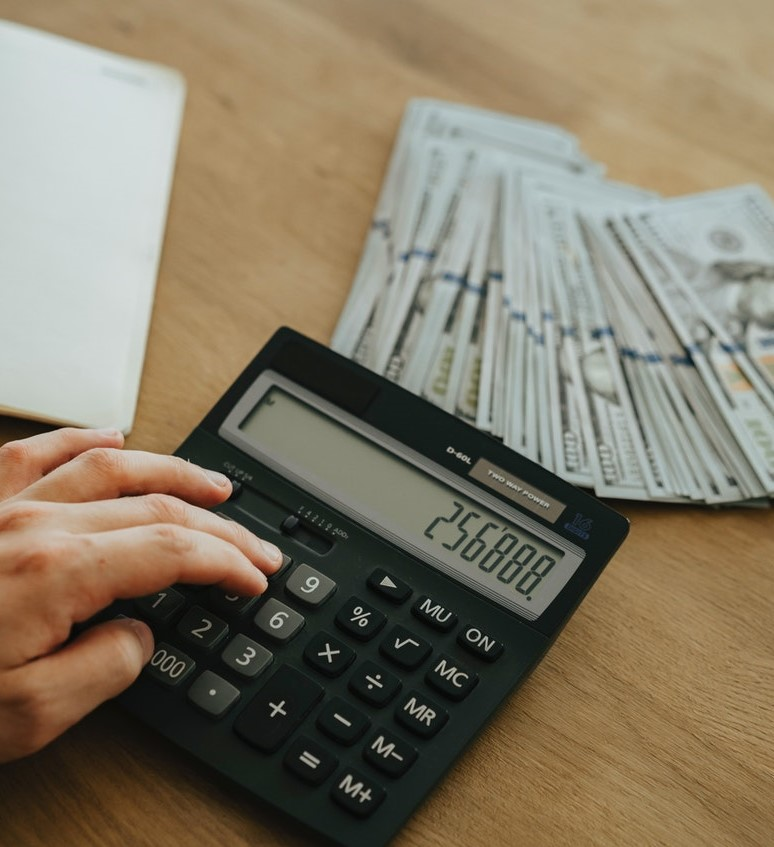
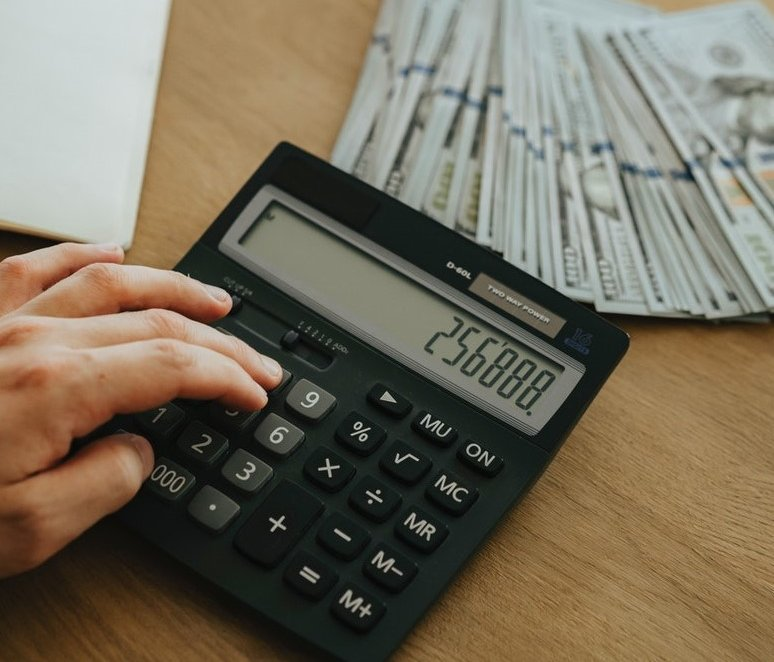
js event handeler added

diff --git a/index.html b/index.html
@@ -17,44 +17,62 @@
   </head>
   <body>
     <div class="container">
-        <h1 class="text-center">Budget Estimator</h1>
-        <div class="row">
-            <div class="col-md-7"><img class="img-fluid" src="images/pexels-olia-danilevich-5466806 (2).jpg" alt=""></div>
-            <div class="col-md-5">
-              <h4 class="text-center">Income</h4>
-              <form action="">
-                <div class="inputs">
-                  <label for="">Income</label>
-                  <input class="input-field" type="number">
-                </div>
-
-                <h4 class="text-center">Expenses</h4>
-
-                <div class="inputs">
-                  <label for="">Food :</label>
-                  <input class="input-field"  type="number">
-                </div>
-                <div class="inputs">
-                  <label class="d-inline-block" for="">Rent :</label>
-                  <input class="input-field"  type="number"></div>
-                <div class="inputs">
-                  <label  for="">Clothes :</label>
-                  <input class="input-field"  type="number">
-                </div>
-                <button class="btn btn-info text-white m-auto d-block btn-lg px-5">Calculate</button>
-                <h4 class="text-center pt-3">Total Expenses: <span id="total-expenses">5000</span></h4>
-                <h4 class="text-center pt-3">Balance: <span id="balance">5000</span></h4>
-                <div class="savings">
-                  <label for="">Save:</label>
-                  <input class="input-field" type="number">
-                  <span class="px-3"> % </span>
-                  <button class="btn btn-info text-white px-5">Calculate</button>
-                  <h4 class="text-center pt-3">Savinng amount: <span id="savinng-amount">5000</span></h4>
-                  <h4 class="text-center pt-3">Remaining balance: <span id="remaining-balance">5000</span></h4>
-                </div>
-              </form>
-            </div>
+      <h1 class="text-center py-3">Budget Estimator</h1>
+      <div class="row gx-5">
+        <div class="col-md-7">
+          <img
+            class="img-fluid"
+            src="images/4-edited.jpg"
+            alt=""
+          />
         </div>
+        <!-- <div class="col-md-1"></div> -->
+        <div class="col-md-5 bg-light">
+          <h5 class="text-center pt-2">Income</h5>
+          <div action="">
+            <div class="inputs">
+              <label for="">Income</label>
+              <input id="total-income" class="input-field" type="number" />
+            </div>
+
+            <h5 class="text-center">Expenses</h5>
+
+            <div class="inputs">
+              <label for="">Food :</label>
+              <input id="food-cost" class="input-field" type="number" />
+            </div>
+            <div class="inputs">
+              <label class="d-inline-block" for="">Rent :</label>
+              <input id="rent-cost" class="input-field" type="number" />
+            </div>
+            <div class="inputs">
+              <label for="">Clothes :</label>
+              <input id="cloth-cost" class="input-field" type="number" />
+            </div>
+            <button id="calculate" class="btn btn-info text-white m-auto d-block btn-lg px-5">
+              Calculate
+            </button>
+            <h5 class="text-center pt-3">
+              Total Expenses: <span id="total-expenses">5000</span>
+            </h5>
+            <h5 class="text-center pt-3">
+              Balance: <span id="balance">5000</span>
+            </h5>
+            <div class="savings">
+              <label for="">Save:</label>
+              <input id="saving-percentage" class="input-field" type="number" />
+              <span class="px-3"> % </span>
+              <button id="saving" class="btn btn-info text-white px-5">save</button>
+              <h5 class="text-center pt-3">
+                Savinng amount: <span id="saving-amount">5000</span>
+              </h5>
+              <h5 class="text-center pt-3">
+                Remaining balance: <span id="remaining-balance">5000</span>
+              </h5>
+            </div>
+          </div>
+        </div>
+      </div>
     </div>
 
     <!-- bootstrap js -->

diff --git a/app.js b/app.js
@@ -1,0 +1,43 @@
+document.getElementById("calculate").addEventListener("click", function () {
+    const totalIncome = document.getElementById('total-income');
+    const totalIncomeNumber = parseInt(totalIncome.value);
+    
+    const foodCost = document.getElementById('food-cost');
+    const foodCostNumber = parseInt(foodCost.value);
+
+    const rentCost = document.getElementById('rent-cost');
+    const rentCostNumber = parseInt(rentCost.value)
+
+
+    const clothCost = document.getElementById('cloth-cost');
+    const clothCostNumber = parseInt(clothCost.value)
+
+    const totalCost = foodCostNumber + rentCostNumber + clothCostNumber;
+
+    const balance = totalIncomeNumber - totalCost;
+
+    const totalExpensesFeild = document.getElementById('total-expenses');
+    totalExpensesFeild.innerText = totalCost;
+    const balanceFeild = document.getElementById('balance');
+     balanceFeild.innerText = balance;
+
+  console.log(totalIncomeNumber,foodCostNumber,rentCostNumber,clothCostNumber, totalCost, balance);
+});
+
+document.getElementById("saving").addEventListener("click", function () {
+    const savingRate = document.getElementById('saving-percentage');
+    const savingRateNumber = parseInt(savingRate.value)
+
+    const balanceFeild = document.getElementById('balance');
+    const balanceFeildNumber = parseInt(balanceFeild.innerText);
+
+    const totalSaving =  (balanceFeildNumber * savingRateNumber) / 100;
+
+    const savingAmount = document.getElementById('saving-amount');
+    savingAmount.innerText = totalSaving;
+
+    const remainingBalance = document.getElementById('remaining-balance');
+    remainingBalance.innerText = balanceFeildNumber - totalSaving;
+
+  console.log(remainingBalance.innerText);
+});

diff --git a/style.css b/style.css
@@ -1,13 +1,18 @@
+@import url("https://fonts.googleapis.com/css2?family=Poppins:wght@300;400;500;600;700;800;900&display=swap");
 
-.inputs{
-    text-align: right;
-    padding-right: 25%;
-    margin-bottom: 20px;
-    margin-top: 10px;
+
+body{
+    font-family: 'Poppins', sans-serif;
 }
-.input-field{
-    border: 1px solid black;
-    border-radius: 3px;
-    padding: 5px 0;
-    background-color: gray;
+.inputs {
+  text-align: right;
+  padding-right: 25%;
+  margin-bottom: 20px;
+  margin-top: 10px;
+}
+.input-field {
+  border: none;
+  border-radius: 3px;
+  padding: 5px 5px;
+  background-color: #dcdcdc;
 }
